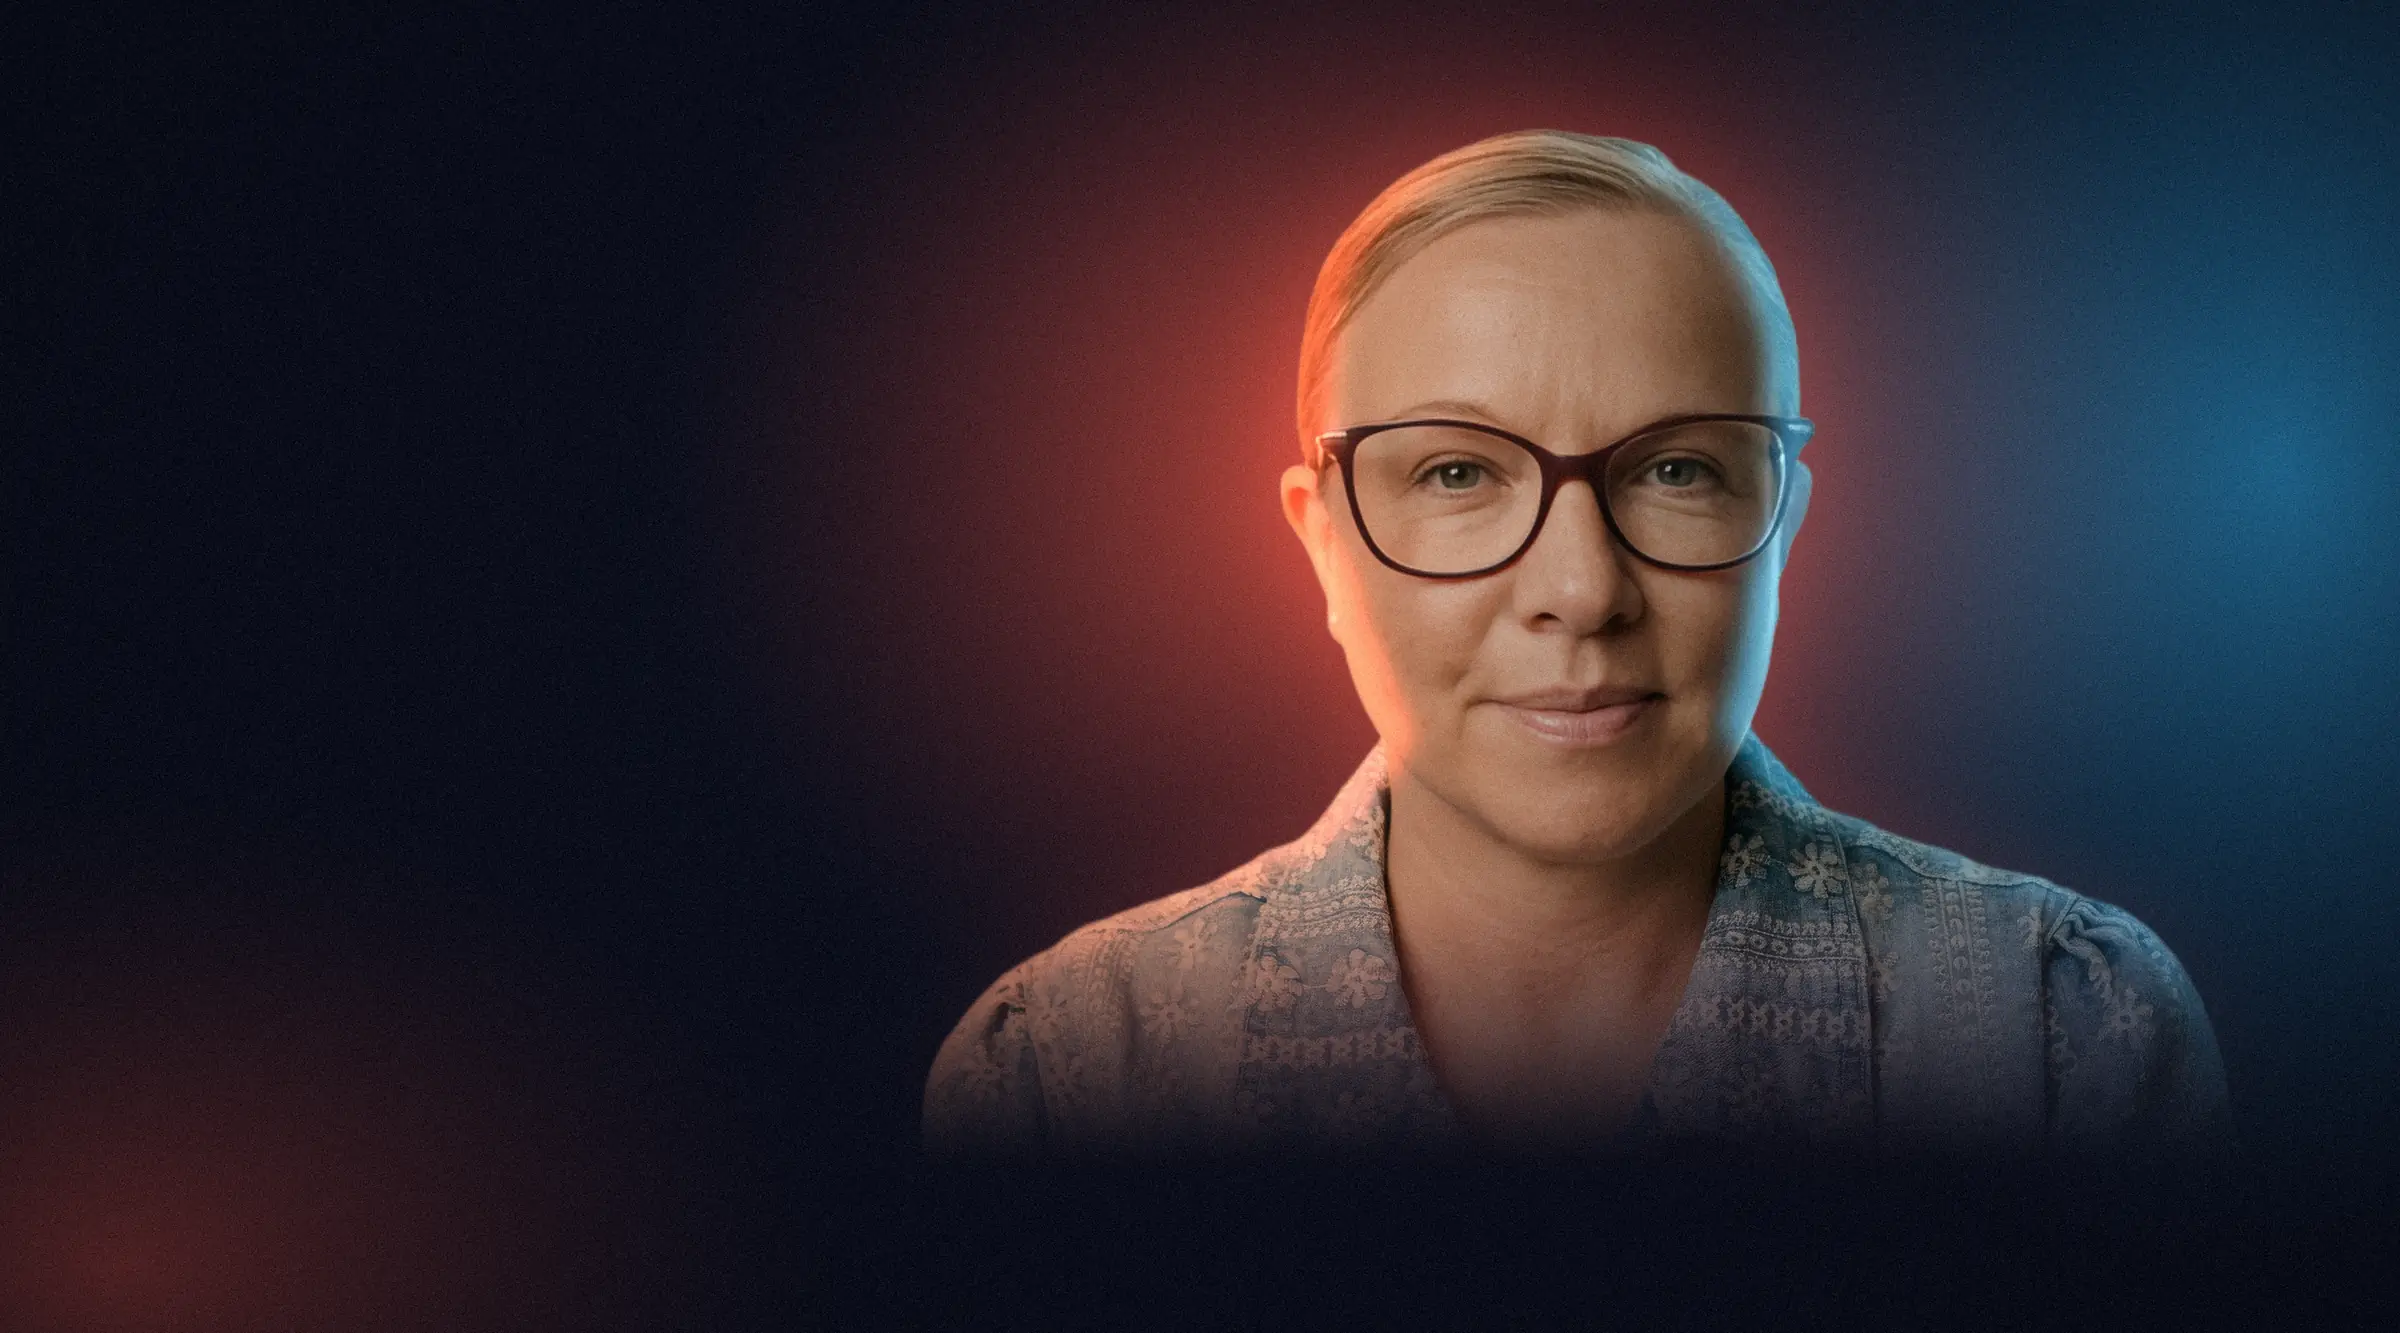
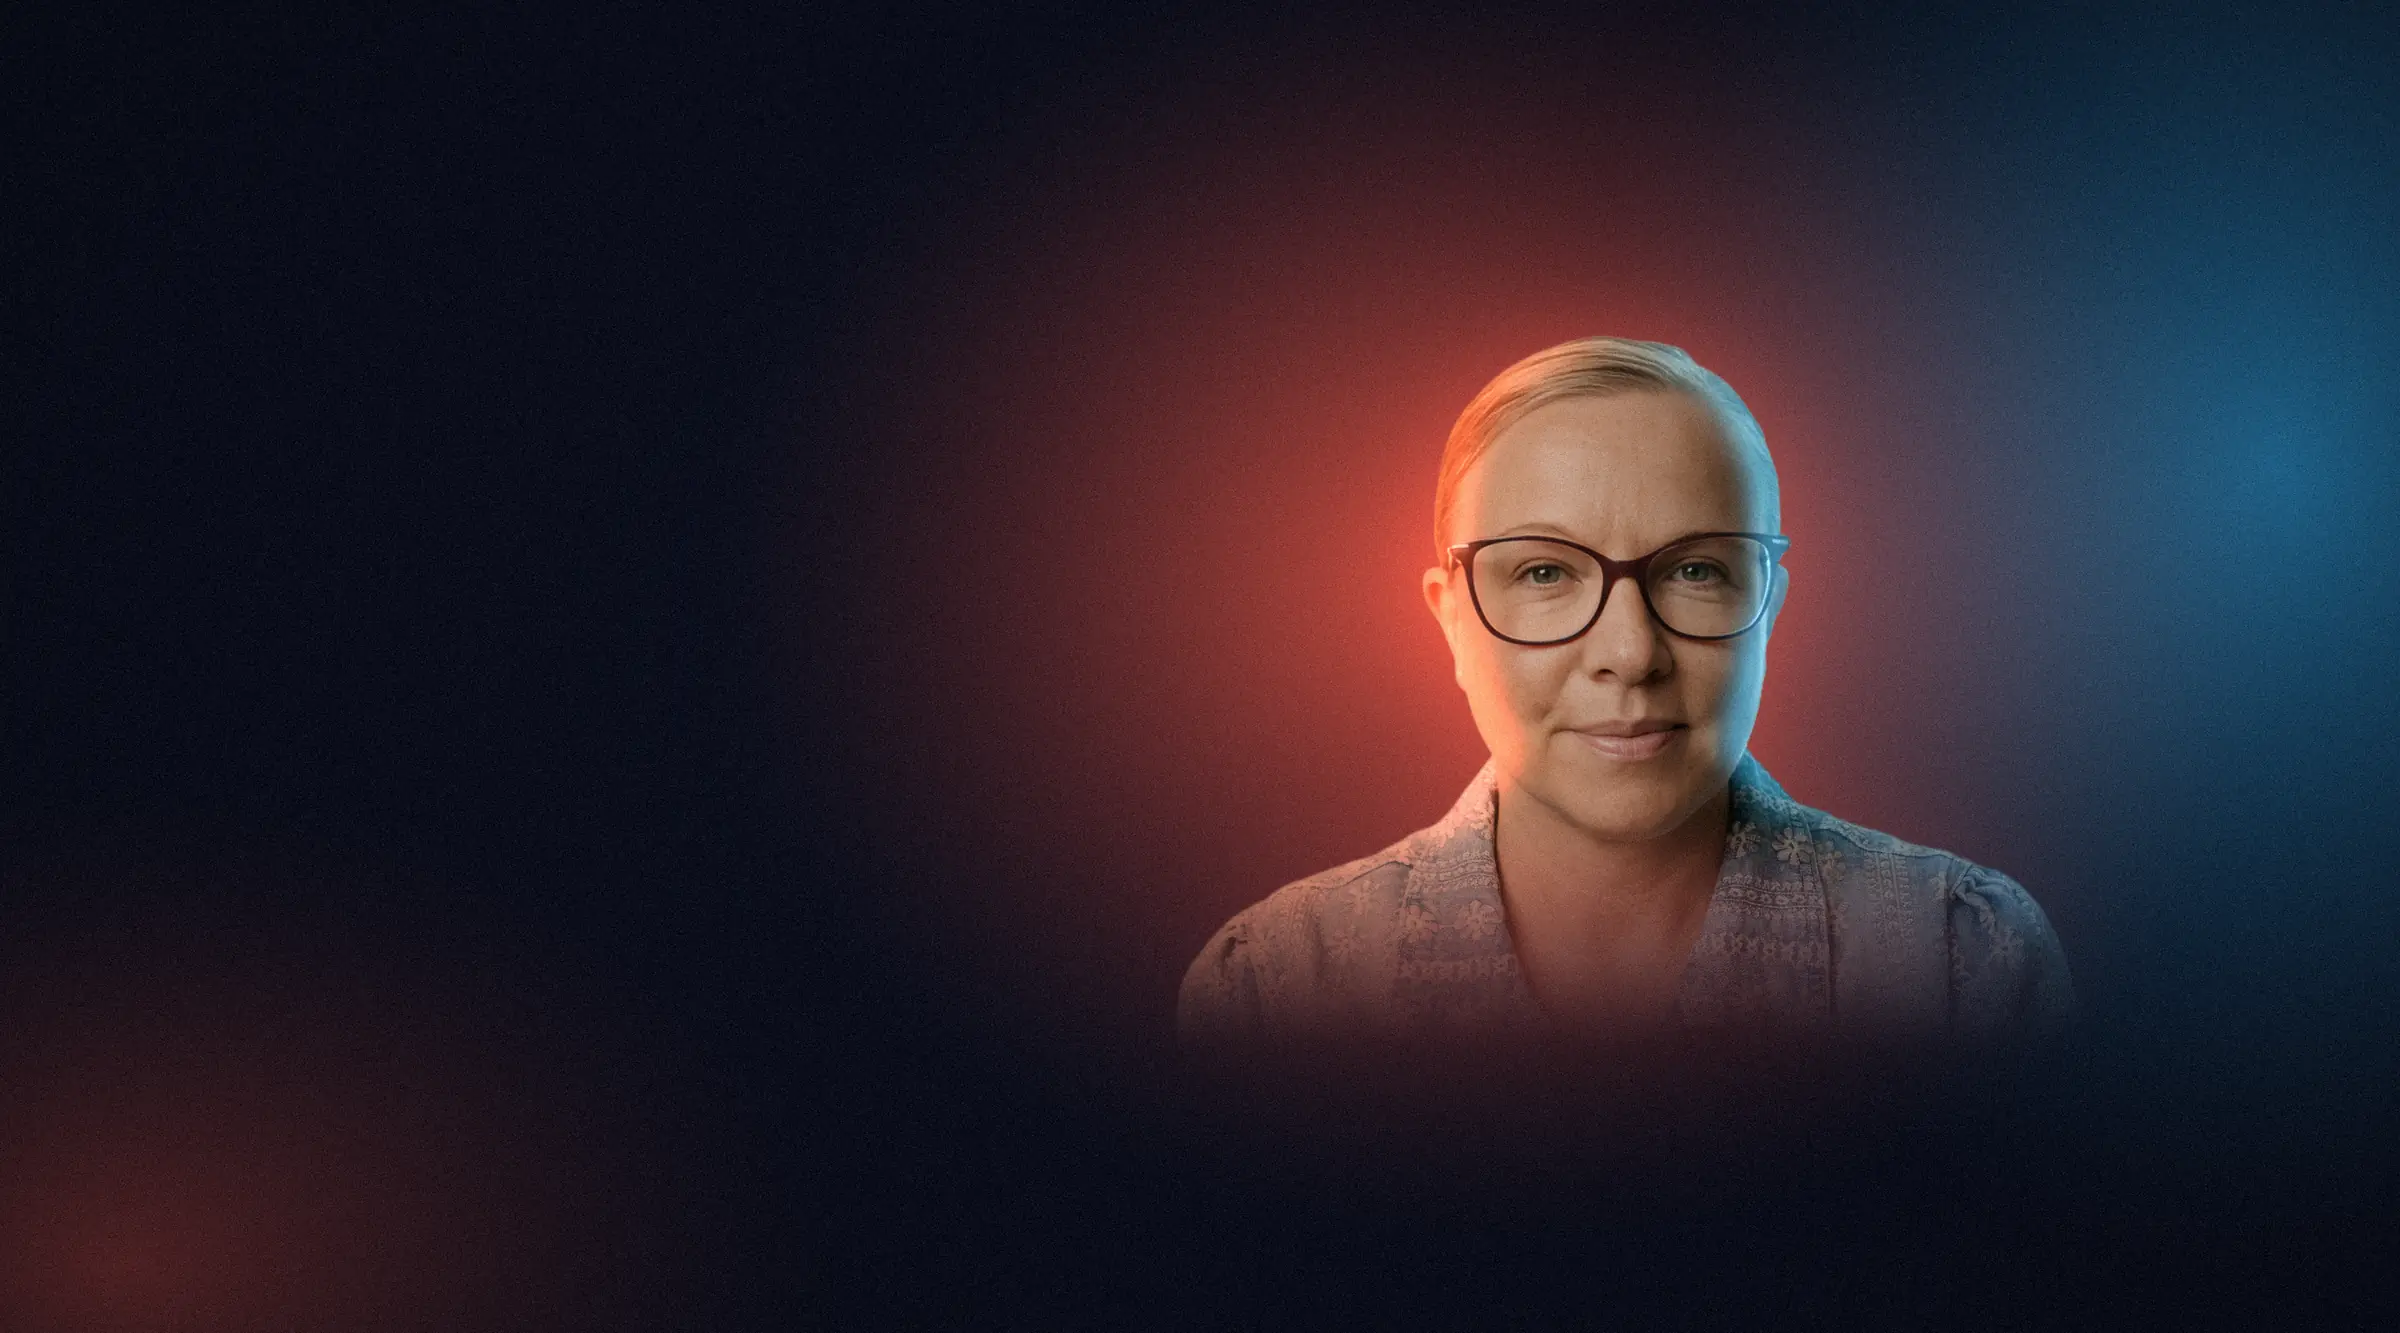
Hero: smaller portrait, more room for the title
Nina is rendered at about 60% of the previous size, higher and further
right, with more dark space. On phones the photo area is shorter, so the
title, slogan, button and services fit on the first screen.

Changed region(s): [[0.375, 0.0, 0.9375, 0.8305]]

diff --git a/index.html b/index.html
@@ -11,13 +11,13 @@
 <meta property="og:title" content="AartWay Assistance – Din tid, mitt fokus">
 <meta property="og:description" content="Administrativ assistans, föreläsningar och workshops samt praktiska arrangemang – på svenska och finska. Nina Aartokallio, Helsingfors.">
 <meta property="og:url" content="https://codexpodextodex.github.io/aartway-assistance/">
-<meta property="og:image" content="https://codexpodextodex.github.io/aartway-assistance/img/og.jpg?v=2">
+<meta property="og:image" content="https://codexpodextodex.github.io/aartway-assistance/img/og.jpg?v=3">
 <meta name="twitter:card" content="summary_large_image">
 <link rel="icon" href="favicon.svg" type="image/svg+xml">
 <link rel="preconnect" href="https://fonts.googleapis.com">
 <link rel="preconnect" href="https://fonts.gstatic.com" crossorigin>
 <link href="https://fonts.googleapis.com/css2?family=Inter+Tight:ital,wght@0,400;0,500;0,600;0,700;1,500&family=Homemade+Apple&display=swap" rel="stylesheet">
-<link rel="preload" as="image" href="img/hero-1600.webp?v=2" imagesrcset="img/hero-m.webp?v=2 900w, img/hero-1600.webp?v=2 1600w, img/hero-2400.webp?v=2 2400w" imagesizes="100vw" fetchpriority="high">
+<link rel="preload" as="image" href="img/hero-1600.webp?v=3" imagesrcset="img/hero-m.webp?v=3 900w, img/hero-1600.webp?v=3 1600w, img/hero-2400.webp?v=3 2400w" imagesizes="100vw" fetchpriority="high">
 <link rel="stylesheet" href="styles.css">
 <script>document.documentElement.classList.add('js');</script>
 <script type="application/ld+json">
@@ -81,8 +81,8 @@
 <!-- HERO -->
 <section class="hero" id="top">
   <picture class="hero-media">
-    <source media="(max-width: 680px)" srcset="img/hero-m.webp?v=2">
-    <img src="img/hero-1600.webp?v=2" srcset="img/hero-1600.webp?v=2 1600w, img/hero-2400.webp?v=2 2400w" sizes="100vw" width="2400" height="1333" alt="Nina Aartokallio, grundare av AartWay Assistance" data-fi-alt="Nina Aartokallio, AartWay Assistancen perustaja" fetchpriority="high">
+    <source media="(max-width: 680px)" srcset="img/hero-m.webp?v=3">
+    <img src="img/hero-1600.webp?v=3" srcset="img/hero-1600.webp?v=3 1600w, img/hero-2400.webp?v=3 2400w" sizes="100vw" width="2400" height="1333" alt="Nina Aartokallio, grundare av AartWay Assistance" data-fi-alt="Nina Aartokallio, AartWay Assistancen perustaja" fetchpriority="high">
   </picture>
   <div class="hero-shade" aria-hidden="true"></div>
 
@@ -531,7 +531,7 @@
       <div class="contact-info reveal">
         <p class="contact-lead" data-fi="Ota yhteyttä, niin jutellaan, miten voin auttaa sinua – yksityishenkilönä tai yrityksenä, suomeksi tai ruotsiksi.">Hör av dig så diskuterar vi hur jag kan hjälpa dig – som privatperson eller företag, på svenska eller finska.</p>
         <div class="person">
-          <img src="img/nina-avatar.webp?v=2" width="160" height="160" alt="" loading="lazy">
+          <img src="img/nina-avatar.webp?v=3" width="160" height="160" alt="" loading="lazy">
           <div><b>Nina Aartokallio</b><span data-fi="Perustaja, AartWay Assistance">Grundare, AartWay Assistance</span></div>
         </div>
         <dl class="facts">

diff --git a/styles.css b/styles.css
@@ -601,7 +601,7 @@ details[open] > summary + p { animation: panel-in .5s var(--ease); }
 
 @media (max-width: 680px) {
   .hero { height: auto; min-height: 0; max-height: none; display: grid; grid-template-columns: 100%; }
-  .hero-media { position: relative; grid-area: 1 / 1; height: min(78svh, 660px); }
+  .hero-media { position: relative; grid-area: 1 / 1; height: auto; aspect-ratio: 900 / 947; }
   .hero-inner { display: contents; }
   .hero-title { grid-area: 1 / 1; align-self: end; position: relative; z-index: 2; padding: 0 var(--pad) 14px; margin: 0; }
   .hero-title .t1 { font-size: 24.5vw; }
